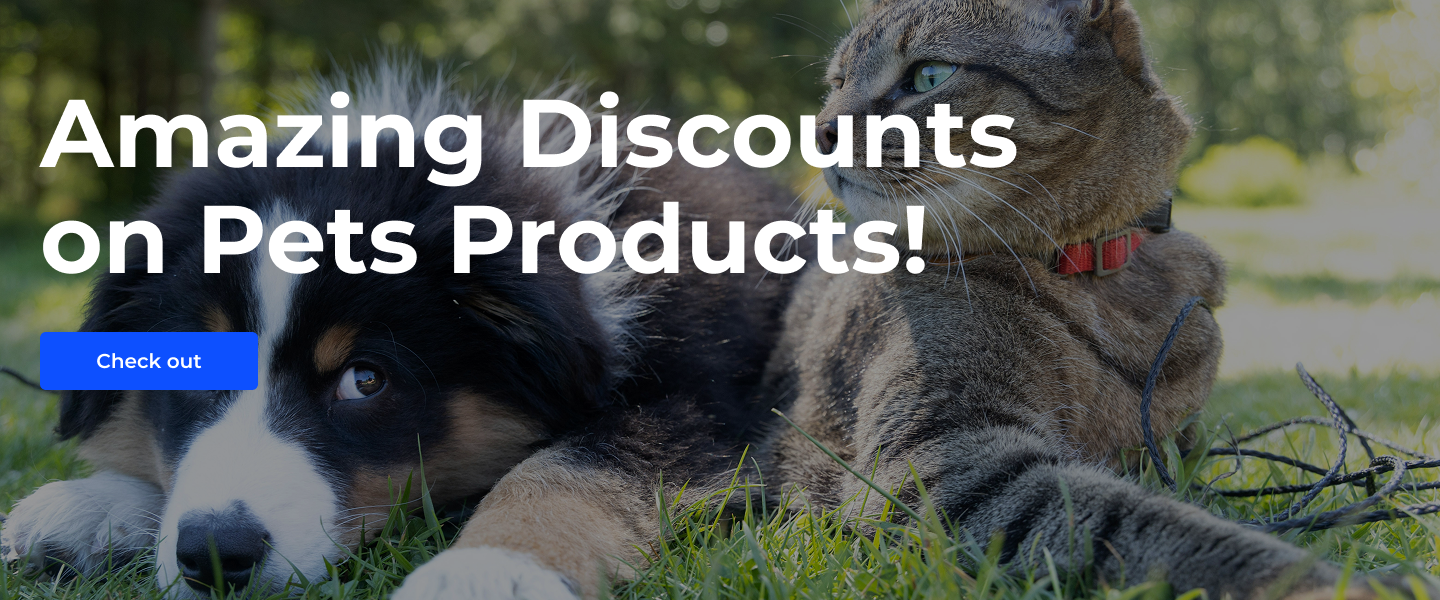
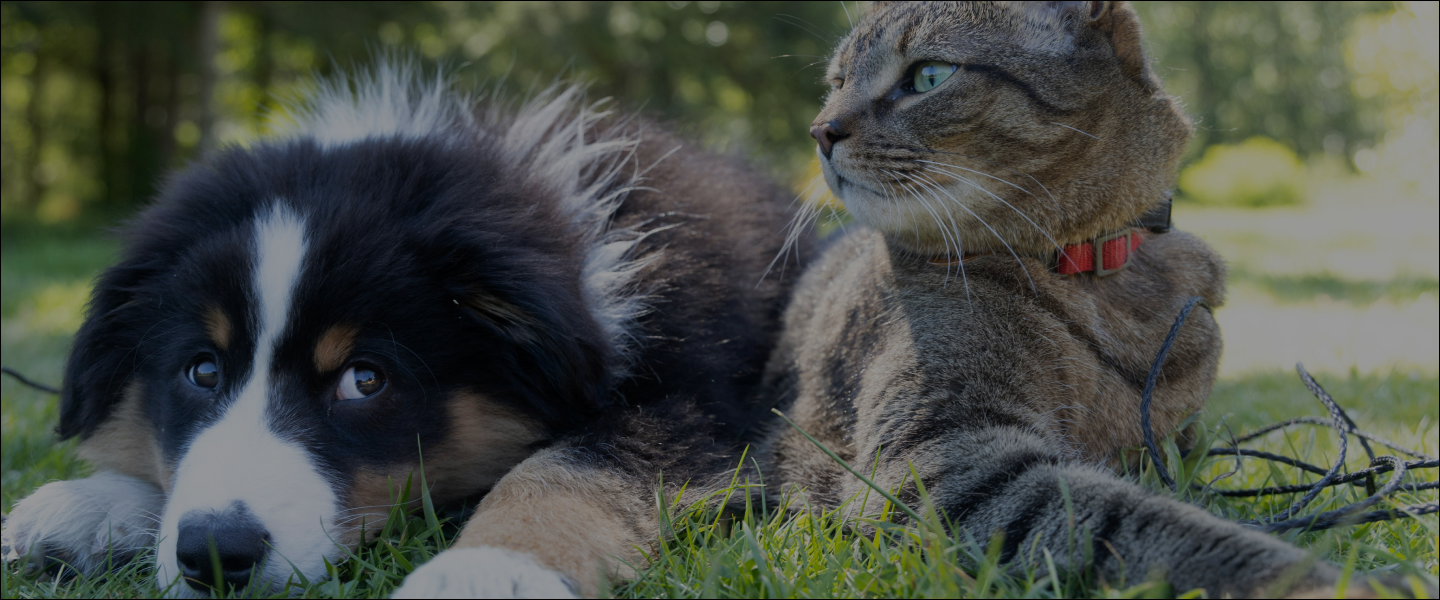
main Image

diff --git a/src/pages/main/styles.module.css b/src/pages/main/styles.module.css
@@ -1,0 +1,93 @@
+.container {
+  position: relative;
+  width: 100%;
+  aspect-ratio: 1440 / 600;
+  overflow: hidden;
+  background-size: cover;
+  background-position: 32% 50%;
+  background-repeat: no-repeat;
+}
+
+
+.content {
+  position: absolute;
+  left: 2.8%;
+  top: 15%;
+  width: 56%;
+  display: flex;
+  flex-direction: column;
+  align-items: flex-start;
+}
+
+
+.title {
+  margin: 0;
+  color: #fff;
+  font-weight: 800;
+  line-height: 1.50;
+  letter-spacing: 5px;
+  text-shadow: 0 2px 6px rgba(0,0,0,.25);
+  margin-bottom: 30px;
+  font-size: clamp(36px, 6.6667vw, 96px);
+}
+
+
+.cta {
+  margin-top: clamp(24px, 3vw, 44px);
+}
+
+@media (max-width: 1900px) {
+  .container { background-position: 42% 50%; }
+  .content { left: 3.8%; top: 13%; width: 72%; }
+  .title {
+    letter-spacing: 1px;
+    line-height: 1.22;
+    margin-bottom: 22px;
+  }
+}
+
+
+@media (max-width: 1200px) {
+  .container { background-position: 40% 50%; }
+  .content { left: 3.4%; top: 13.5%; width: 68%; }
+  .title {
+    font-size: clamp(32px, 5.2vw, 78px);
+    letter-spacing: 1px;
+    line-height: 1.18;
+    margin-bottom: 24px;
+  }
+  .cta { margin-top: clamp(22px, 2.6vw, 36px); }
+}
+
+
+@media (max-width: 992px) {
+  .container { background-position: 42% 50%; }
+  .content { left: 3.8%; top: 13%; width: 72%; }
+  .title {
+    letter-spacing: 1px;
+    line-height: 1.22;
+    margin-bottom: 22px;
+  }
+}
+
+
+@media (max-width: 768px) {
+  .container { aspect-ratio: 16 / 9; background-position: 45% 50%; }
+  .content { left: 4.8%; top: 12%; width: 84%; }
+  .title {
+    letter-spacing: 0.5px;
+    line-height: 1.2;
+    margin-bottom: 20px;
+  }
+  .cta { margin-top: clamp(20px, 4vw, 34px); }
+}
+
+
+@media (max-width: 480px) {
+  .content { left: 5.5%; top: 10.5%; width: 90%; }
+  .title {
+    letter-spacing: 0.3px;
+    line-height: 1.18;
+    margin-bottom: 18px;
+  }
+}

diff --git a/src/pages/main/index.jsx b/src/pages/main/index.jsx
@@ -1,5 +1,42 @@
+import { Link } from "react-router-dom";
+import styles from "./styles.module.css";
+import Button from "@mui/material/Button";
+import petImage from "../../assets/images/petImage.png";
+
 function Main() {
-    return
+  return (
+    <section
+      className={styles.container}
+      style={{
+        backgroundImage: `linear-gradient(rgba(0,0,0,0.32), rgba(0,0,0,0.18)), url(${petImage})`,
+      }}
+    >
+      <div className={styles.content}>
+        <h1 className={styles.title}>
+          Amazing Discounts<br />on Pets Products!
+        </h1>
+
+        <Button
+          className={styles.cta}
+          component={Link}
+          to="/sales"
+          variant="contained"
+          sx={{
+            width: { xs: 170, md: 218 },
+            height: { xs: 46, md: 58 },
+            fontSize: { xs: 14, md: 16 },
+            borderRadius: "12px",
+            textTransform: "none",
+            fontWeight: 600,
+            backgroundColor: "#0D50FF",
+              ":hover": { backgroundColor: "#000" },
+          }}
+        >
+        Check out
+        </Button>
+      </div>
+    </section>
+  );
 }
 
 export default Main;
